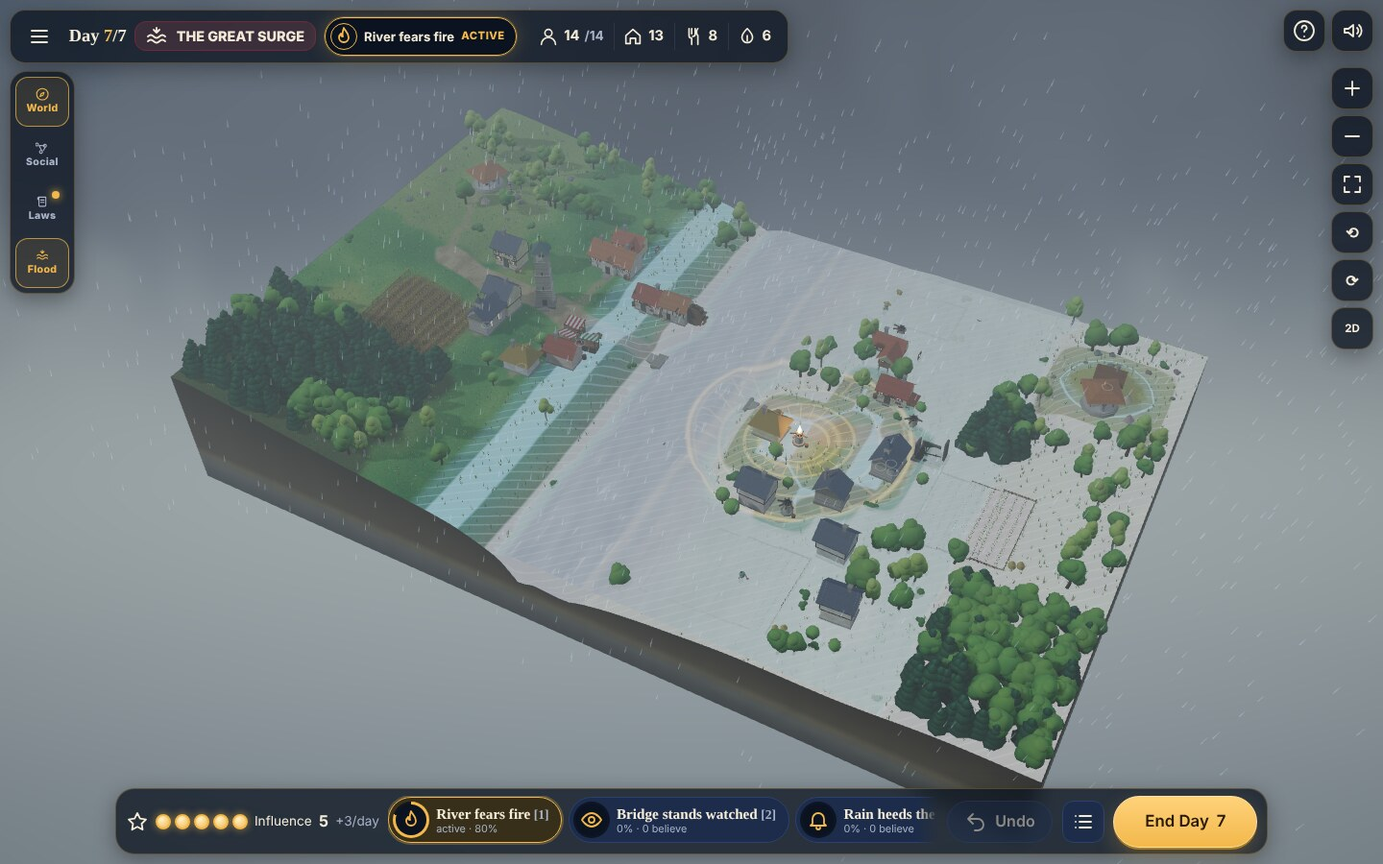
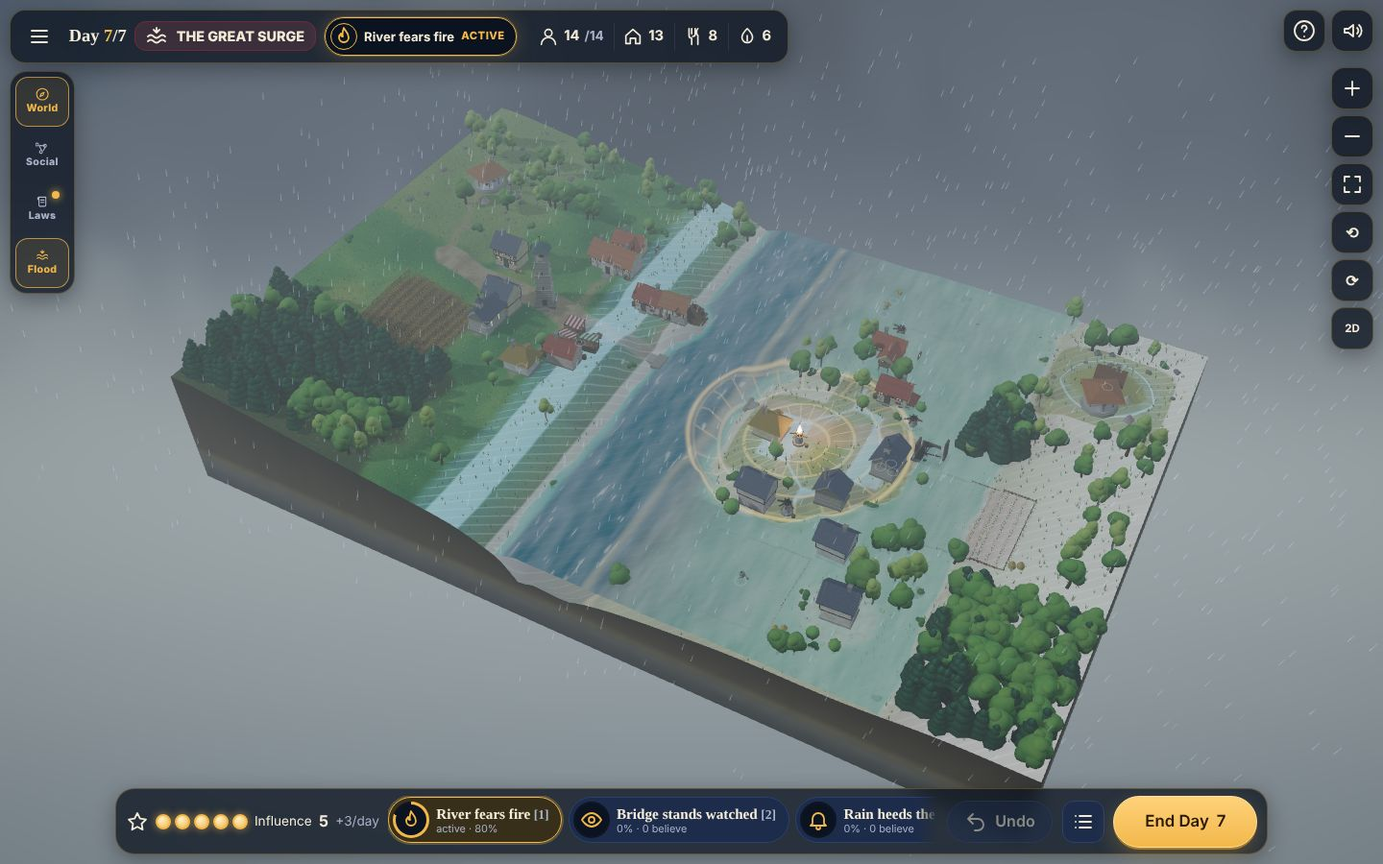
fix(3d): forecast overlay is turned down over standing water; camera-control test
Laid over a flood that is already there, tonight's forecast stripes whitened
the water; where water stands the overlay is now a third as strong and on the
water surface 0.4x. Frames D, E2, F2, K, M recaptured.

New e2e test drives the camera with a real mouse (drag pans and selects
nothing, wheel zooms between limits, right-drag orbits with elevation kept in
range), the buttons and the reset key, and checks the run's hash is unchanged.

Claude-Session: https://claude.ai/code/session_01P1iXhaxM6K9TpX1WneVpK8

Changed region(s): [[0.3438, 0.2489, 0.7812, 0.84]]

diff --git a/tests/e2e/world3d.spec.ts b/tests/e2e/world3d.spec.ts
@@ -289,6 +289,61 @@ test.describe('the 3D world', () => {
     expect(given.n).toBeGreaterThan(100);
   });
 
+  test('the camera pans, zooms, orbits and resets through real mouse input, the keyboard and the on-screen buttons, within its limits, and never touches the run', async ({ page }, info) => {
+    await startRedbank(page, 1, 'normal', URL3D);
+    await ready(page);
+    const view = (): Promise<{ x: number; z: number; dist: number; azimuthDeg: number; elevationDeg: number }> =>
+      page.evaluate(() => (window as unknown as { __beRenderer: { describeView: () => { x: number; z: number; dist: number; azimuthDeg: number; elevationDeg: number } } }).__beRenderer.describeView());
+    const hash0 = (await browserState(page)).hash;
+    // the interface measures itself a few times a second and the camera frames the village in what it leaves free: let that settle, then this is home
+    await page.waitForTimeout(1200);
+    const home = await view();
+    const box = (await page.locator('canvas').boundingBox())!;
+    const mx = box.x + box.width * 0.5;
+    const my = box.y + box.height * 0.5;
+    const phone = info.project.name.startsWith('phone');
+
+    if (!phone) {
+      // a drag pans the ground under the pointer, and is not a selection
+      await page.mouse.move(mx, my);
+      await page.mouse.down();
+      await page.mouse.move(mx + 160, my + 40, { steps: 8 });
+      await page.mouse.up();
+      const panned = await view();
+      expect(Math.hypot(panned.x - home.x, panned.z - home.z)).toBeGreaterThan(0.3);
+      expect(await page.evaluate(() => (window as unknown as { __belief: { store: { ui: { selection: unknown } } } }).__belief.store.ui.selection)).toBeNull();
+      // the wheel zooms, and keeps within the nearest and farthest the camera allows
+      await page.mouse.move(mx, my);
+      for (let i = 0; i < 40; i++) await page.mouse.wheel(0, -300);
+      await page.waitForTimeout(400);
+      const near = await view();
+      expect(near.dist).toBeLessThan(home.dist);
+      expect(near.dist).toBeGreaterThan(3);
+      for (let i = 0; i < 80; i++) await page.mouse.wheel(0, 300);
+      await page.waitForTimeout(400);
+      const far = await view();
+      expect(far.dist).toBeGreaterThan(near.dist);
+      expect(far.dist).toBeLessThan(home.dist * 1.5);
+      // a right-drag orbits, and the elevation stays between its limits (never under the ground)
+      await page.mouse.move(mx, my);
+      await page.mouse.down({ button: 'right' });
+      await page.mouse.move(mx - 200, my + 400, { steps: 10 });
+      await page.mouse.up({ button: 'right' });
+      const orbited = await view();
+      expect(Math.abs(orbited.azimuthDeg - far.azimuthDeg)).toBeGreaterThan(3);
+      expect(orbited.elevationDeg).toBeGreaterThanOrEqual(24);
+      expect(orbited.elevationDeg).toBeLessThanOrEqual(66.01);
+    }
+    // the on-screen buttons turn it, and the keyboard brings the whole village back
+    const before = await view();
+    await page.getByTestId('orbit-right').click();
+    await expect.poll(async () => Math.abs((await view()).azimuthDeg - before.azimuthDeg)).toBeGreaterThan(5);
+    await page.locator('canvas').focus();
+    await page.keyboard.press('0');
+    await expect.poll(async () => Math.abs((await view()).dist - home.dist), { timeout: 10_000 }).toBeLessThan(0.5);
+    expect((await browserState(page)).hash).toBe(hash0);
+  });
+
   test('the interface over the live 3D world passes axe (no critical or serious findings), with a card and the law ledger open', async ({ page }) => {
     await startRedbank(page, 1, 'normal', URL3D);
     await ready(page);

diff --git a/src/render3d/magic.ts b/src/render3d/magic.ts
@@ -39,9 +39,12 @@ export const MAGIC_GLSL = /* glsl */ `
   // line at every step of depth, cool where it is shallow and warm where it is deep. Stripes and lines mean it reads without colour.
   vec3 forecastGlow(vec2 xz) {
     if (uForecastOn < 0.5) return vec3(0.0);
-    float d = texture2D(uForecast, xz / uMagicDim).r * 4.0;
+    vec4 f = texture2D(uForecast, xz / uMagicDim);
+    float d = f.r * 4.0;
     float wet = smoothstep(0.3, 0.7, d);
     if (wet < 0.01) return vec3(0.0);
+    // where water already stands the overlay is turned down: laid over the real flood it would only whiten it
+    wet *= mix(1.0, 0.35, f.g);
     float stripes = smoothstep(0.35, 0.5, abs(fract((xz.x + xz.y) * 2.4 - uMagicTime * 0.1) - 0.5));
     float line = smoothstep(0.4, 0.5, abs(fract(d) - 0.5));
     vec3 c = mix(vec3(0.28, 0.72, 0.96), vec3(1.0, 0.46, 0.34), clamp((d - 1.0) / 2.0, 0.0, 1.0));
@@ -110,7 +113,11 @@ export const MAGIC_GLSL = /* glsl */ `
         col += uReachCol[i].rgb * (inside * (0.025 + 0.6 * pat * r.w * (0.4 + 0.6 * core)) + edge * (0.22 + 0.55 * r.w) + core * core * 0.07 * r.w);
       }
     }
+#ifdef MAGIC_ON_WATER
+    col += forecastGlow(xz) * 0.4;
+#else
     col += forecastGlow(xz);
+#endif
     // expanding rings and ripples from engine events
     for (int i = 0; i < ${PULSES}; i++) {
       vec4 p = uPulse[i];
@@ -322,7 +329,10 @@ export class MagicField {
   setForecast(pred: ArrayLike<number> | null, now: ArrayLike<number>): void {
     this.uniforms.uForecastOn.value = pred ? 1 : 0;
     if (!pred) return;
-    for (let i = 0; i < this.w * this.h; i++) this.fData[i * 4] = Math.round(Math.min(1, Math.max(0, (pred[i] - now[i]) / 4)) * 255);
+    for (let i = 0; i < this.w * this.h; i++) {
+      this.fData[i * 4] = Math.round(Math.min(1, Math.max(0, (pred[i] - now[i]) / 4)) * 255);
+      this.fData[i * 4 + 1] = now[i] > 0 ? 255 : 0;
+    }
     this.fTex.needsUpdate = true;
   }
 
@@ -414,6 +424,6 @@ export function attachMagicToStandard(mat: THREE.MeshStandardMaterial, field: Ma
 /** put the glow into the water shader's colour (the water's own fragment source is passed in and returned changed) */
 export function injectMagicIntoWater(frag: string): string {
   return frag
-    .replace('void main() {', `${MAGIC_GLSL}\n  void main() {`)
+    .replace('void main() {', `#define MAGIC_ON_WATER 1\n${MAGIC_GLSL}\n  void main() {`)
     .replace('col *= uTint;', 'col *= uTint;\n    col += magicGlow(vWorld.xz) * 0.8;');
 }

diff --git a/scripts/capture-3d.ts b/scripts/capture-3d.ts
@@ -3,7 +3,7 @@
  * Three.js scene, puts the camera exactly where asked and saves what the canvas shows, with the interface hidden or not.
  *
  *   npx vite --host 127.0.0.1 --port 5173 &        # or npm run build && npm run preview (port 4173)
- *   npx tsx scripts/capture-3d.ts --state calm --size 1440x900 --out docs/3d-rebuild/screenshots/A.png [--view az=28,el=44,dist=20,x=14,z=9]
+ *   npx tsx scripts/capture-3d.ts --day 6 --policy threat-aware --seed 2 --size 1440x900 --out docs/3d-rebuild/screenshots/shot.jpg [--view az=28,el=44,dist=20,x=14,z=9]
  *       [--quality high] [--hud 0|1] [--url http://127.0.0.1:5173] [--wait 1500] [--renderer 3d|2d] [--day 5] [--policy evidence-first] [--seed 1] [--scenario redbank]
  *       [--resolve 1 --t 1.2]   play day N in full, load the dawn after it, then play that day's real events and let 1.2 s of effects run
  */

diff --git a/docs/3d-rebuild/FINAL_REVIEW.md b/docs/3d-rebuild/FINAL_REVIEW.md
@@ -1,0 +1,98 @@
+# 3D rebuild: final review
+
+This is the closing record of the `prompts/3d-rebuild/` work, written as the art director the brief asks for and then as the engineer who has to
+back every sentence with a command. **Verdict first: the game now has a real, interactive, richly rendered 3D village on its default route wherever
+the browser has graphics acceleration, it is fully playable and replayable through it, and the engine, saves and MCP are untouched. It is not
+claimed to be "premium": three scorecard areas sit at 3 of 5, nothing has been run on a real GPU or phone, and nobody has played it.**
+
+## What was reviewed, and how
+
+* **Source and commits.** Branch `claude/gracious-gates-95kmda`, pull request 1. The 3D work is in `7b5bfa0` (Three.js world behind a renderer interface, belief-magic effects), `6416850` (immersive HUD, aftermath scene, forecast overlay, batching, 3D browser tests), `ebde29e` (side-sheet focus race), and `1809880` (this review's repairs, scripts and the 16 frames). `git log --oneline` names the rest; the docs-only commit after `1809880` carries this file.
+* **Frames.** The ten required scenes plus six more (A, A2, B, C, D, E, E2, F, F2, G, H, I, J, K, L, M) were captured from the production build, looked at one by one, scored, and the defects fixed and recaptured. Paths, seeds, viewports and scores: `VISUAL_QA.md`.
+* **Anti-target.** The old flat map (`screenshots/baseline-2d/`) was compared feature by feature (volume, terrain, bridge, canopy, sunlight, water, people, interface share, camera) in `VISUAL_QA.md`.
+
+## The brief's rejection conditions, one by one
+
+| Rejection condition | Status |
+|---|---|
+| Gameplay still looks like 2D icons, green tiles or extruded cubes | **Not true.** Sculpted terrain, shaped roofs, an arched bridge, instanced trees, a flowing river (frames A, B, F) |
+| Houses lack roof, door, window, chimney, foundation, surroundings | **Not true.** Five cottage types with all of those, plus civic buildings (B). Plain plaster walls and dark gable tips remain as flaws |
+| Water is a static blue rectangle, or a flood is only a HUD meter | **Not true.** A flow shader whose depth is the engine's depth tile for tile; a surge floods the engine's tiles and stops at a lit beacon's reach (D, E2) |
+| Fixed fake-isometric view | **Not true.** Pan, zoom to cursor, bounded orbit, pinch, keyboard, buttons, focus (`MapView.tsx`, `camera.ts`). `world3d.spec.ts` drives a real mouse drag (pans, selects nothing), the wheel (zooms between its limits), a right-drag (orbits, elevation kept between 24° and 66°), the buttons and the reset key. Two-finger pinch is wired but has **no automated test** (Playwright cannot make two real touches) |
+| Citizens only flat cards or cylinders | **Not true, but weak:** 14 role-costumed, animated, pickable figures; small and blocky (scored 3) |
+| HUD so large the village does not dominate | **Not true.** At least 75% of a desktop screen and 60% of a phone's stays world at rest (asserted). One exception named: the opening story cards cover the lower fifth for a moment (A2) |
+| A fancy screenshot that cannot play, or mock states | **Not true.** Every frame is a bot-played engine state loaded through the save format; the 3D world is played with real clicks and taps in tests |
+| Mechanics, replay, saves or MCP broken by the migration | **Not true.** See the runs below: recorded traces reach identical hashes through the 3D world; `npm test` 364 of 364; the engine and `mcp/**` have no diff in this work |
+| Mobile graphical path blank or unplayably slow | **Not shown either way.** On an emulated Pixel 7 with software WebGL it draws and plays (slowly: that is a CPU rasteriser). A real phone is **UNVERIFIED** |
+| No visual evidence captured, yet declared complete | **Not true.** 16 real frames, reviewed |
+
+## The ten steps of the review loop
+
+1. **Captured the ten scenes** (plus six): done, `screenshots/`.
+2. **Before/after against the anti-target, with concrete changes:** done, `VISUAL_QA.md` last table.
+3. **Ranked defect list (P0/P1/P2):** done, nine defects, `VISUAL_QA.md`.
+4. **Fixed all P0 and at least the top five P1, recaptured:** done. One P0 (the forecast overlay did not appear until the first click; found because frame M had no overlay) and five P1 (backwards timber beams; the hero bridge drowned in the surge; phone framing, haze and stale zoom; a small and misdirected debrief world; flat lighting). Three P2 as well.
+5. **Gameplay walkthrough, not only a flying camera:** the 3D projects play a run from the first click: pick a story, tap a villager, spend Influence, end the day, win through the recorded line, lose through doing nothing and retry on a new seed, save mid-storm and resume. One thing became awkward and was fixed: with a tall phone screen a tap near the bridge could pick the neighbour, so the tests come in on the person first, as a player would (the limitation stays listed).
+6. **Full engine, E2E, compatibility and performance suite:** below, with the numbers.
+7. **Production build and browser route:** `npm run build`, `npm run size`, and `npm run verify:hosting` (the shipped Content-Security-Policy and headers served to a real browser, now including the lazily loaded 3D world with zero violations and zero console errors).
+8. **Deployment:** **none.** No Vercel deployment was made and no live URL exists; nothing here claims one. `vercel.json` and `docs/RELEASE_CHECKLIST.md` describe how to deploy.
+9. **Source backup and migration story:** the work is committed and pushed on the branch above; the 2D renderer is kept (fallback and A/B), and the prompts files carry the renderer override so a future agent does not undo this (`prompts/README.md`, `prompts/00_MASTER_GOAL.md`).
+10. **Honest PASS / PARTIAL / UNVERIFIED per phase:** `STATUS.md` phase table, repeated here.
+
+## Full runs on the final build (Linux container, 4 cores, software WebGL, Chromium 153)
+
+| Command | Result |
+|---|---|
+| `npx tsc --noEmit`, `npx eslint . --max-warnings 0` | clean |
+| `npm test` | **29 files, 364 tests passed** |
+| `npm run test:sim:smoke` (8 policies × 4 scenario families × 8 paired seeds) | **256/256 runs, SMOKE OK**: no crash, softlock, nondeterminism or engine violation |
+| `npm run build`, `npm run size` | entry 232 KB gzip (budget 260), 3D chunk 197 KB gzip (budget 270, lazy), CSS 7.8 KB (budget 12) |
+| `npm run verify:hosting` | 19 checks ok, including the 3D world under the production policy |
+| `npm run test:e2e:3d` (desktop-3d and phone-3d projects, the real 3D scene) | **30 passed, 0 failed** (9.6 min) |
+| `npm run test:e2e:classic` (desktop and phone, the classic map) | **140 passed, 0 failed, 52 skipped** (project-specific skips) (6.7 min) |
+| `npm run test:e2e:browsers` (Chromium, Firefox 155, WebKit 26.6, iPhone-14 profile; smoke) | **8 passed** |
+| `npx tsx scripts/browser-3d-smoke.ts` (does the 3D world come up in other engines?) | Chromium **PASS**; WebKit 26.6 (Playwright Linux build) **PASS**: 3D drew frames; Firefox 155 headless **fell back to the classic map** (no usable WebGL2 there), which is the designed fallback, not a pass |
+
+Two failures happened on the way and are not hidden: a keyboard-flow test and an axe contrast check each failed once under load (a hidden-to-visible
+transition made `focus()` miss in the first frame of a sheet opening; a card was measured half way through its fade-in). Both were real timing
+races in the page or the test; the page was changed for the first (the sheet is now visible from its first frame), the audit now waits for finite
+animations for the second. A parallel Playwright run of my own also wiped the other run's output folder once and produced two bogus failures, which
+passed on a clean re-run.
+
+## Phase verdicts
+
+| Phase | Verdict | The honest reason |
+|---|---|---|
+| 3D-01 Source audit and migration | **PASS** | Audit, adapter, flag, baseline frames, engine untouched |
+| 3D-02 Renderer, camera, lighting | **PASS** | Works and is tested on software WebGL. Feel and shadow quality on a real GPU: **UNVERIFIED** |
+| 3D-03 Terrain, water, weather | **PASS** | Engine-derived, asserted tile for tile. No refraction or reflection |
+| 3D-04 Architecture and environment | **PASS** | Detailed procedural kit. No glTF/Blender pipeline: a deliberate choice recorded in `ASSET_LICENSES.md` |
+| 3D-05 Villagers and life | **PARTIAL** | Present, animated, pickable; small and blocky; motion not reviewed as video |
+| 3D-06 Belief magic and feedback | **PASS** | Event-parity fixtures and tests; legible, not lavish |
+| 3D-07 Immersive HUD and controls | **PASS** | Tested with real pointer events (3D projects) and axe, including on the live 3D page. A real phone and a real screen reader: **UNVERIFIED**. Evacuation routes are not drawn |
+| 3D-08 Asset pipeline and optimisation | **PARTIAL** | Budgets met and measured on software GL only; GPU and phone frame rate **UNVERIFIED**; no in-world loading scene |
+| 3D-09 Visual QA and gameplay regression | **PASS** | Frames, scorecard, defects, regression table. No automated pixel-diff baseline (the phase allows structural tests plus inspection) |
+| 3D-10 Final art direction and release | **PARTIAL** | Reviewed and repaired. Not premium by its own rubric; nothing deployed |
+
+## Final artist's test (Day 1, no interface)
+
+Frame A (`screenshots/A-day1-overview.jpg`) is Day 1 with every piece of interface hidden. Would it sit on the front page of a polished indie game
+collection? **Close, not there.** What passes: it reads at once as a fantasy village, not a map editor: the plate has volume, the river has life, the
+bridge, tower, mill and market have silhouettes, the light is warm and the shadows long, a few birds are in the air. What does not: the diorama
+floats on a plain gradient with nothing beyond it; up close the surfaces are matte and a little too clean; the people are specks until you zoom. I did not
+declare it finished on this test; I list those three as the next work.
+
+## What I would do next, in order
+
+1. Put the game in front of a real GPU and a real phone and record the numbers `PERFORMANCE.md` has to leave as UNVERIFIED (including thermal behaviour).
+2. Give the plate a world: a horizon of hills in haze, a ground it sits on, drifting cloud shadows.
+3. Lift the surfaces: textured plaster, a roof texture without the colour noise, a few more tree and cottage variants, a bigger villager silhouette at the overview.
+4. Review motion as video; add the ambient life that survives that review.
+5. Replace box pick volumes with the visible geometry so a beacon half behind a home picks as the beacon.
+6. Draw evacuation routes when a house is selected.
+
+## Rollback
+
+If a critical failure is found in the 3D world, `?renderer=2d` (or the 2D toggle in the map tools) gives the classic map immediately, and it is the
+default wherever the browser has no graphics acceleration. A hard rollback is a revert of the 3D commits listed above; the engine, saves and MCP are
+not part of them, so no save or recorded run is affected.

diff --git a/docs/KNOWN_ISSUES.md b/docs/KNOWN_ISSUES.md
@@ -25,3 +25,12 @@
 * **Phase 17 changed no existing rule**: every recorded state and event hash of the built-in chapters and of the 1 000 generated villages is identical before and after (the engine version is still 1.0.0; the new `COMPOSE` action simply does not exist in older engines, which reject a run that contains one). The catalog of verified villages was therefore not regenerated for phase 17 (re-verified over seeds 1 to 1000: the same 853 villages, the same winning planners).
 * **No service worker, no offline install**: the game loads from the network on first visit and then needs no further requests, but it is not a PWA and does not work from a cold start with no connection.
 * **The novice pass loses every chapter, and telling alone changes nothing the score can see** (`docs/FINAL_ACCEPTANCE.md`): a script that follows the on-screen prompts through the real UI (the coach on days 1 to 3, then telling the most influential people, and in one style also pressing the proof buttons the Places list offers) lost all 24 runs, and the tell-only style scored *exactly* what doing nothing scores in all three chapters (493, 680, 697). It is a floor, a script rather than a person, but it means a newcomer who does only the obvious thing gets no sign that their actions mattered; the debrief's "what would have changed it" is then the teacher. Whether a first-time human can win a chapter in one or two tries is the main thing no automated check can say.
+* **The 3D world has never run on a real GPU, a real phone or real Safari** (`docs/3d-rebuild/PERFORMANCE.md`). Everything was tested on software WebGL (SwiftShader) in Chromium and Playwright's WebKit, and an emulated Pixel 7. Frame rate, heat and battery are unmeasured; the three quality tiers and a run-time monitor exist for weak hardware but are untried on any. Firefox headless offers no WebGL2 and falls back to the classic map.
+* **Browsers with only a software rasteriser get the classic map by default** (`?renderer=3d` forces the 3D world). That is deliberate (it would run at a few frames a second) and it means every classic-map flow test says nothing about the 3D look.
+* **3D visual quality is my own review, not a user's** (`docs/3d-rebuild/VISUAL_QA.md`): three scorecard areas are at 3 of 5 (environmental life, citizens, phone usability), so premium is not claimed. Motion was reviewed in code and stills, not as video. Plain plaster and a muddy roof texture up close; people are small and blocky; the village floats on a plain gradient; the opening story cards cover the lower fifth of the village for a moment.
+* **3D picking uses box volumes, not the visible geometry.** A beacon half behind a home can select the home, and on a phone's opening view two people near the bridge can be hard to tell apart by tap (the tests come in on the person first). Two-finger pinch is wired but has no automated test.
+* **A standing bridge is drawn above the surge** (its deck rides the water). That is a visual choice; the engine's bridge state and every number are unchanged.
+* **The 3D look is all procedural** (no hand-made art, no glTF pipeline, no in-world loading scene beyond a small status) by choice; the trade-off is in `docs/3d-rebuild/ASSET_LICENSES.md`.
+* **Evacuation routes are not drawn** when a house is selected (the card lists who is inside).
+* **Nothing is deployed** and no human has played the 3D build.
+

diff --git a/docs/3d-rebuild/VISUAL_QA.md b/docs/3d-rebuild/VISUAL_QA.md
@@ -61,7 +61,7 @@ Frame M was recaptured after the fix.
 
 | Area | Score | Evidence and the flaw that holds it back |
 |---|---:|---|
-| Three-dimensional depth | **4** | Terrain rolls and has banks and a layered edge (A); roofs are real gables and hips, the bridge is an arch with parapets, trees overlap and foreshorten (B). The camera really orbits within limits (tests, controls in `MapView.tsx`). Held to 4: everything is smooth-shaded primitives; nothing is sculpted at the detail of hand-made models |
+| Three-dimensional depth | **4** | Terrain rolls and has banks and a layered edge (A); roofs are real gables and hips, the bridge is an arch with parapets, trees overlap and foreshorten (B). The camera really pans, zooms and orbits within limits (driven by real mouse input in `world3d.spec.ts`). Held to 4: everything is smooth-shaded primitives; nothing is sculpted at the detail of hand-made models |
 | Art coherence | **4** | One procedural palette and material set, one wind, one light. Held to 4: the same few tree and cottage variants repeat, and the tile texture's colour noise looks muddy up close |
 | Environmental life | **3** | Water flows, foliage sways, chimneys smoke, wheels turn, rain falls, clouds drift, birds circle, windows glow at dusk, people walk, work and rest. **Judged from code and stills only; I did not review motion as video**, and I cannot claim it reads as alive without that. Scored 3 on that basis |
 | Lighting and material | **4** | A warm low key light with soft cast shadows, a cool sky fill, tone mapping, haze that eases with distance (A, B, D). Held to 4: surfaces are matte procedural textures; plaster is flat; no ambient occlusion beyond the shadow map |
@@ -111,7 +111,7 @@ Frame M was recaptured after the fix.
 | Restart, focus, quality toggle: no leaked GPU objects or stacked canvases | PASS | "restarting and loading other villages does not leak geometry or textures"; the 2D/3D toggle test |
 | Offline core game with no optional service | PASS | `acceptance.spec.ts` "with the network cut, the game and the composer still work" |
 | No blank screen, pink textures, floating houses, feet through ground, uniform cube forests, blocky water, wrong flood stage, modal over the main character, hidden call to action | PASS by inspection of the 16 frames, plus tests for the flood stage (`render3d-scene.test.ts`) and for the end-day button staying in view | |
-| Lighting consistent after orbit; touch targets correct | PARTIAL | orbit tested by controls; consistent lighting judged from stills only |
+| Lighting consistent after orbit; touch targets correct | PARTIAL | orbit and its limits are tested; one light rig is shared by every view, but consistency after orbit was judged from code and stills only. Touch taps are tested; two-finger pinch is not |
 | Frame-time p50/p95 with a representative camera and storm | **UNVERIFIED on real hardware**; measured on software GL only | `PERFORMANCE.md` |
 
 ## Before and after (anti-target vs now), by feature

diff --git a/README.md b/README.md
@@ -88,7 +88,7 @@ In the browser, a seed is typed in the briefing, a run can be shared as a link (
 | `npm run typecheck` / `npm run lint` | strict TypeScript; ESLint (the engine forbids `Math.random` and `Date.now`) |
 | `npm test` | Vitest: determinism and replay, social mechanics, laws and physics, scenarios, generator, progression, factions, exploit probes, audio, performance, saved tournament traces, the belief composer (balance, compose, corpora, model mode with a mocked provider), the MCP server over real stdio, source guards for unsafe code and keys |
 | `npm run test:e2e` | Playwright (builds and serves production): every project. `npm run test:e2e:classic` = desktop and phone on the classic map (real-click winning traces for every chapter and a generated village, Journeys A and C, Inventor mode, persistence and recovery, 5 viewport sizes, axe audits); `npm run test:e2e:3d` = the 3D world on software WebGL (boots and draws, taps pick through the 3D raycast, the recorded winning and losing lines reach the identical hashes, mid-day and mid-storm saves resume, no GPU leaks on restart, every effect names a logged event, the toggle) |
-| `npx tsx scripts/capture-3d.ts`, `scripts/capture-matrix.ts`, `scripts/perf-3d.ts` | real screenshots of real engine states in the 3D world (any state, camera, quality, size) / the ten-frame QA matrix / scene cost and frame times per quality tier |
+| `npx tsx scripts/capture-3d.ts`, `scripts/capture-matrix.ts`, `scripts/perf-3d.ts`, `scripts/browser-3d-smoke.ts` | real screenshots of real engine states in the 3D world (any state, camera, quality, size) / the sixteen-frame QA matrix / scene cost and frame times per quality tier / does the 3D world come up in Firefox and WebKit |
 | `npm run test:e2e:browsers` | smoke tests in Chromium, Firefox, WebKit and an iPhone-14 profile (needs `npx playwright install firefox webkit`) |
 | `npm run test:sim` / `npm run test:sim:smoke` | headless bot tournaments (paired seeds, JSON/CSV/Markdown reports) / a one-minute CI benchmark |
 | `npm run gen:verify` | verify generated villages offline and refresh the catalog (after any generator or rules change) |

diff --git a/docs/3d-rebuild/PERFORMANCE.md b/docs/3d-rebuild/PERFORMANCE.md
@@ -75,6 +75,19 @@ merging per material and batching statics. The obvious next saving, if a real de
 drawn by code at load (`docs/3d-rebuild/ASSET_LICENSES.md`), so there is nothing to compress, stream or lose. First-paint cost of the 3D
 world is therefore *code + CPU time to paint the canvases and build the meshes* (0.6–0.8 s on this machine), not a download.
 
+## Other browser engines (software WebGL, Playwright's Linux builds)
+
+`npx tsx scripts/browser-3d-smoke.ts` loads a Day-1 village with `?renderer=3d`, waits six seconds and reports what the page chose and drew
+(`docs/3d-rebuild/data/browsers.json`):
+
+| Engine | Result |
+|---|---|
+| Chromium 153 | **PASS**: 3D chosen, frames drawn, 352 draw calls, 222,742 triangles (low tier), no console errors |
+| WebKit 26.6 | **PASS**: 3D chosen, frames drawn, same counts, no console errors |
+| Firefox 155 (headless) | **FALLBACK**: the page chose the classic map because this build offers no usable WebGL2. That is the designed fallback, not a pass; whether desktop Firefox with a GPU runs the 3D world is **UNVERIFIED** |
+
+Real Safari on a Mac or an iPhone is **UNVERIFIED** (WebKit here is Playwright's Linux build; the iPhone profile is emulation).
+
 ## Resource hygiene (tested)
 
 * `tests/e2e/world3d.spec.ts` "restarting and loading other villages does not leak geometry or textures": loads a village, then four others,

diff --git a/docs/PERFORMANCE.md b/docs/PERFORMANCE.md
@@ -1,5 +1,7 @@
 # Performance: targets, how they are measured, and what was measured
 
+> The 3D world's own scene budgets, tiers, bundle split and frame times (measured on a software rasteriser, never on a GPU or phone) are in [`docs/3d-rebuild/PERFORMANCE.md`](3d-rebuild/PERFORMANCE.md). The figures below are for the engine and the classic map and are unchanged.
+
 Every number here was produced by a command in this repository on the machine named below; none is a claim about a particular phone.
 **Machine:** 4 vCPU Intel Xeon @ 2.1 GHz, 15.7 GB RAM, Linux container, Chromium 153.0.8010.12 headless on a software renderer
 (no GPU), Node 22. A phone's CPU is slower than this per core and its GPU faster at compositing; treat these as a reproducible baseline and a
